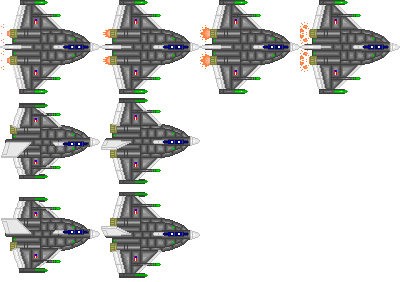
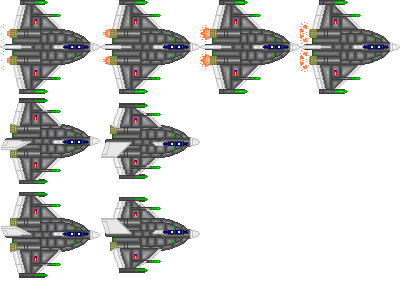
Background

Changed region(s): [[0.0, 0.6809, 0.51, 0.9929], [0.0, 0.3404, 0.51, 0.6525]]

diff --git a/Projet2/src/Keyboard.cpp b/Projet2/src/Keyboard.cpp
@@ -27,12 +27,18 @@ vector<Bullet> Keyboard::shoot(sf::Texture &texture, Spaceship &s)
 
 	if (sf::Keyboard::isKeyPressed(sf::Keyboard::Space))
 	{
-		if (60 / compteurSpace == s.getWeapon().getRate())
+		if (compteurSpace == 60 / s.getWeapon().getRate())
 		{
 			vector<Bullet> bu = s.getWeapon().shoot(texture, s.getSprite());
 			compteurSpace = 1;
 			return bu;
 		}
+		else
+			compteurSpace++;
+	}
+	else{
+		if (compteurSpace == 60 / s.getWeapon().getRate())
+			compteurSpace = 60 / s.getWeapon().getRate();
 		else
 			compteurSpace++;
 	}

diff --git a/Projet2/src/Img.cpp b/Projet2/src/Img.cpp
@@ -4,6 +4,7 @@ Img::Img()
 {
 	spaceship_t.loadFromFile("ressources/spaceship.png");
 	bullet_t.loadFromFile("ressources/bullet.png");
+	background_t.loadFromFile("ressources/background.png");
 }
 
 sf::Texture &Img::getSpaceship_t()
@@ -13,6 +14,11 @@ sf::Texture &Img::getSpaceship_t()
 sf::Texture &Img::getBullet_t()
 {
 	return bullet_t;
+}
+
+sf::Texture &Img::getBackground_t()
+{
+	return background_t;
 }
 
 Img::~Img() {}

diff --git a/Projet2/src/Spaceship.cpp b/Projet2/src/Spaceship.cpp
@@ -24,11 +24,19 @@ void Spaceship::move(int dir)
 	switch (dir)
 	{
 		case 1:
-			anim.y = 2;
+			if (anim.y != 2)
+			{
+				anim.x = 0;
+				anim.y = 2;
+			}
 			sprite.move(0, -5);
 			break;
 		case 2:
-			anim.y = 1;
+			if (anim.y != 1)
+			{
+				anim.x = 0;
+				anim.y = 1;
+			}
 			sprite.move(0, 5);
 			break;
 		case 3:

diff --git a/Projet2/include/Img.h b/Projet2/include/Img.h
@@ -8,10 +8,12 @@ class Img
 	private:
 		sf::Texture spaceship_t;
 		sf::Texture bullet_t;
+		sf::Texture background_t;
 	public:
 		Img();
 		sf::Texture &getSpaceship_t();
 		sf::Texture &getBullet_t();
+		sf::Texture &getBackground_t();
 		~Img();
 };
 

diff --git a/Projet2/include/Field.h b/Projet2/include/Field.h
@@ -13,6 +13,7 @@ class Field
 {
 	private:
 		Img img;
+		sf::Sprite background;
 		vector<Bullet> bullets;
 		Spaceship spaceship;
 		Control *c;
